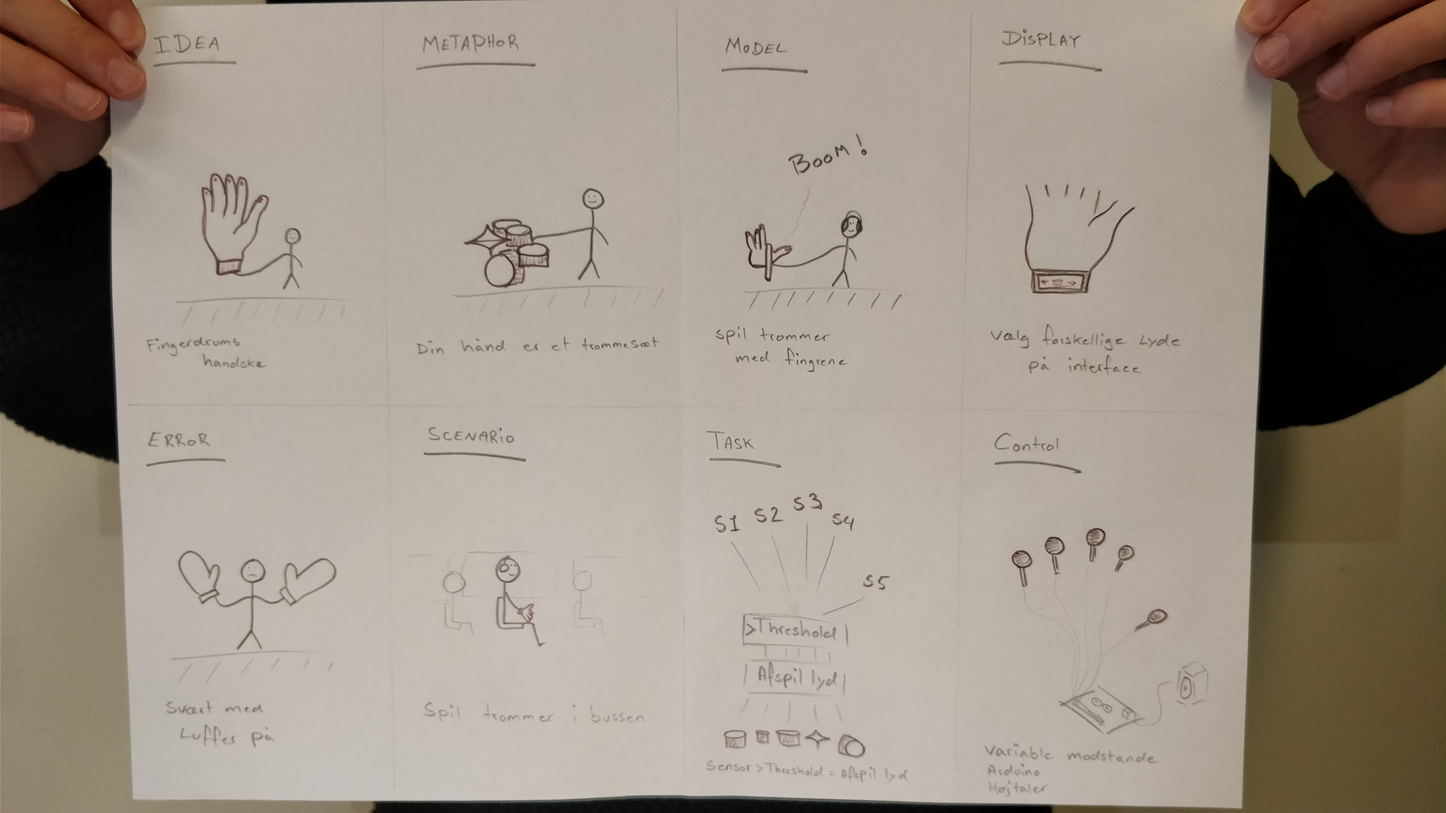
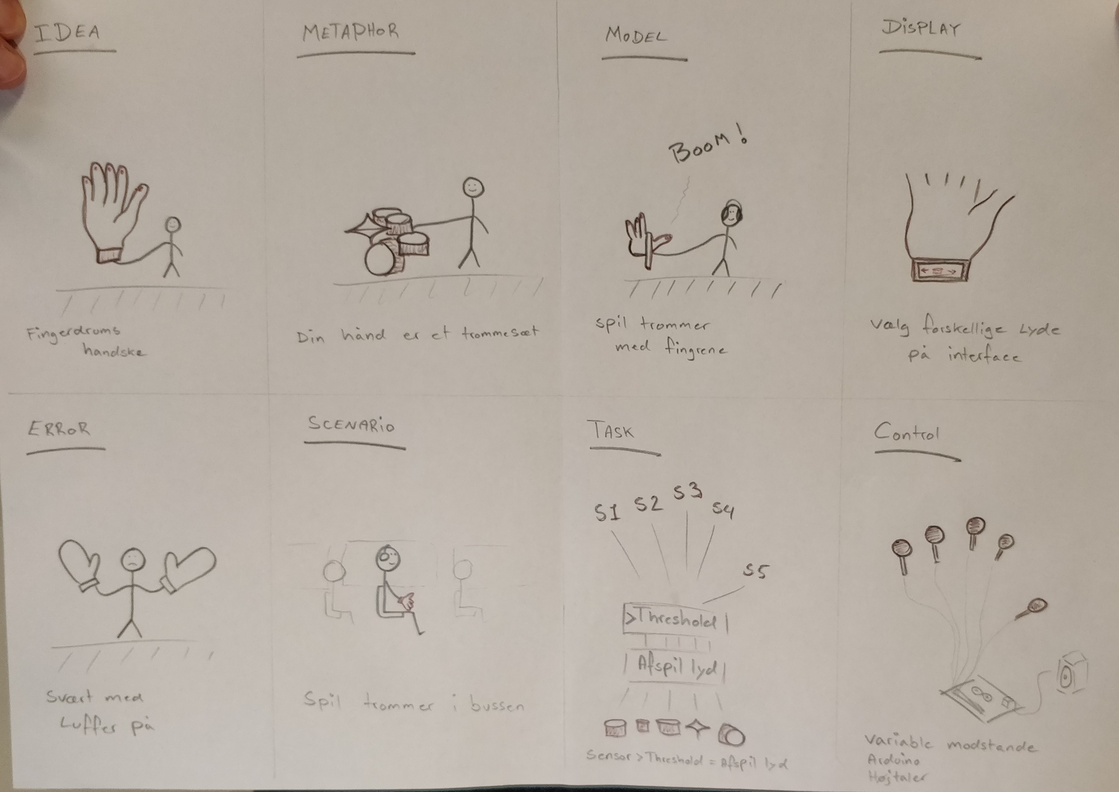
verplank billede tilføjet + ideation  rettet lidt

diff --git a/1. Latex/Content/Ideation.tex b/1. Latex/Content/Ideation.tex
@@ -2,7 +2,7 @@
 \label{Ideation}
 The very first ideation session was very far from the prototype that we ended up with. It started out as a classic brainstorm and ended up revolving around making a multi-purpose Near Field Communication (NFC) RFID device which would be able to toggle the correct signal on or off depending on where it should be used. This way it would be possible to have all your RFID purposes built in to one single device such as your credit card, Rejsekortet, your access card for the university etc. This would eliminate the need for fumbling around your wallet for the correct card of which there are many these days and perhaps even making it wearable eg. a ring on one's finger or embedded in one's jacket. However, the idea did not make it very far from the drawing board after a conversation with Markus Löchtefeld who had personal experience working with this technology. It was not deemed possible. We went back to idea creation and decided to make something fun. The idea of making something wearable carried over and eventually we settled on \textit{FingerDrums}, and idea that will make it possible to drum on any surface and then have a real drum sound play. 
 
-The goal is now to develop an electrical instrument which will be able to simulate drum sounds. The instrument will have sensors attached to each finger and each having their own unique sound. When a finger drums on a surface the sound will play either via a loudspeaker or in a set of headphones. This allows for drumming on various semi rigid surfaces as long as the appropriate resistance is met. The user is able to choose their preferred sound and assign it to the wanted finger. Some sort of interface is necessary for this action to be completed.
+The goal is now to develop an electrical instrument which will be able to simulate drum sounds. The instrument will have sensors attached to each finger, each having their own unique sound. When a finger drums on a surface the sound will play either via a loudspeaker or in a set of headphones. This allows for drumming on various surfaces, rigid or otherwise, as long as the appropriate resistance is met. The user is able to choose their preferred sound and assign it to the wanted finger. Some sort of interface is necessary for this action to be completed.
 
 \input{Content/Verplank_diagram}
 
@@ -13,6 +13,6 @@ The sketch to the right on \autoref{fig:sketch_hand} challenges another possibil
 \begin{figure}[H]
 \centering
 \includegraphics[width = \textwidth]{Figure/sketch_hand}
-\caption{The first sketch to the left illustrates the idea to attach FSR to the finger tips as a way of drumming on any surface while still sounding like a drumkit. The sketch to the right also represents the idea to attach FSR to the finger tips as a way of drumming on any surface while still sounding like a drumkit. A small OLED display has been added in this version as a way for the user to rapid change the drum sounds if needed and is a form of feedback so that the user knows what sound profile is chosen.}
+\caption{The first sketch to the left illustrates the idea to attach FSR to the finger tips as a way of drumming on any surface while still sounding like a drumkit. The sketch to the right also represents the idea to attach FSR to the finger tips as a way of drumming on any surface while still sounding like a drumkit. A small OLED display has been added in this version as a way for the user to rapidly change the drum sounds if needed and is a form of feedback so that the user knows what sound profile is chosen.}
 \label{fig:sketch_hand}
 \end{figure}

diff --git a/1. Latex/Content/Verplank_diagram.tex b/1. Latex/Content/Verplank_diagram.tex
@@ -1,22 +1,42 @@
 \section{Verplank diagram}
 \label{Verplank_diagram}
-over the course of designing the fingerdrums a Verplan digram was created to help specify and explain the idea. 
-\subsection{Idea}
-Playing the drums on any surface using only your fingers as drumsticks.
+When initially designing Fingerdrums a Verplank diagram was created to help specify and explain the idea further, see \autoref{fig:Verplank} . 
+\blankline
 
-\subsection{Metaphore}
-Having a drum set in the palm of your hand that you can play at any time, in any place.  
+\begin{figure}[H]
+\centering
+\includegraphics[width = \textwidth]{Figure/Billeder/IMG_20171114_121155.jpg}
+\caption{Verplank diagram for the Fingerdrums prototype.}
+\label{fig:Verplank}
+\end{figure}
 
-\subsection{Model}
-Play the drums without being anywhere near an actual drum set.
+\textbf{Idea}\\
+A glove that alows you to play the drums on any surface.
+\blankline
 
-\subsection{Display}
-Small OLED display on the wrist which shows the type of drum set currently being used.
+\textbf{Metaphore}\\
+Your hand is the drum set.  
+\blankline
 
-\subsection{Error}
-Any touchscreens, for instance, your phone will not be usable when waring the glove. Drumming on any object will still produce a sound, which could be disruptive, depending on the object.
+\textbf{Model}\\
+Play the drums with you fingers without an actual drum set.
+\blankline
 
-\subsection{Scenario}
+\textbf{Display}\\
+Small display on the wrist which shows the type of drum sounds are currently being used.
+\blankline
+
+\textbf{Error}\\
+The touchscreen on your phone will not be usable when waring the glove. Drumming on any object will still produce a sound, which could be disruptive, depending on the object. Can't be used when wearing mittens.
+\blankline
+
+\textbf{Scenario}\\
 You can play th drums on the bus on the way home from work without having to bring a actual drum set.
+\blankline
 
-\subsection{Tasks}
+\textbf{Tasks}\\
+Check if any finger is being pushed over the threshold, if they are, play a sound.
+\blankline
+
+\textbf{Control}\\
+Variable resistors sending signal through micro controller and out through a speaker.
